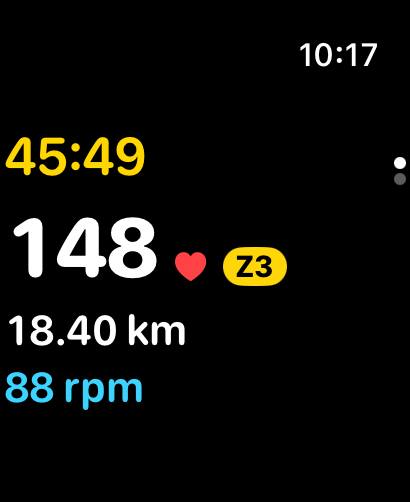
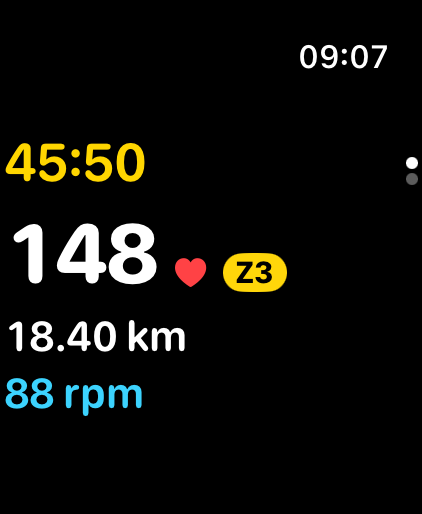
Use the screenshot sizes App Store Connect asks for
iPhone at 1206 × 2622 (medium display) and Apple Watch Ultra 4 at 422 × 514.

diff --git a/docs/app-store/README.md b/docs/app-store/README.md
@@ -75,8 +75,9 @@ Garmin and Varia are trademarks of Garmin Ltd. or its subsidiaries. Car Back is 
 
 **Screenshots**
 
-- iPhone 6.9" (1320 × 2868): `screenshots/iphone-6.9/` in order 01–03. Smaller iPhones reuse these.
-- Apple Watch (410 × 502, Ultra 2): `screenshots/apple-watch/` in order 01–02.
+- iPhone with Dynamic Island, medium display (1206 × 2622): `screenshots/iphone/` in order 01–03.
+- Apple Watch (422 × 514, Ultra 4): `screenshots/apple-watch/` in order 01–02.
+- No iPad screenshots: the app is iPhone-only.
 
 ## App Review information
 
